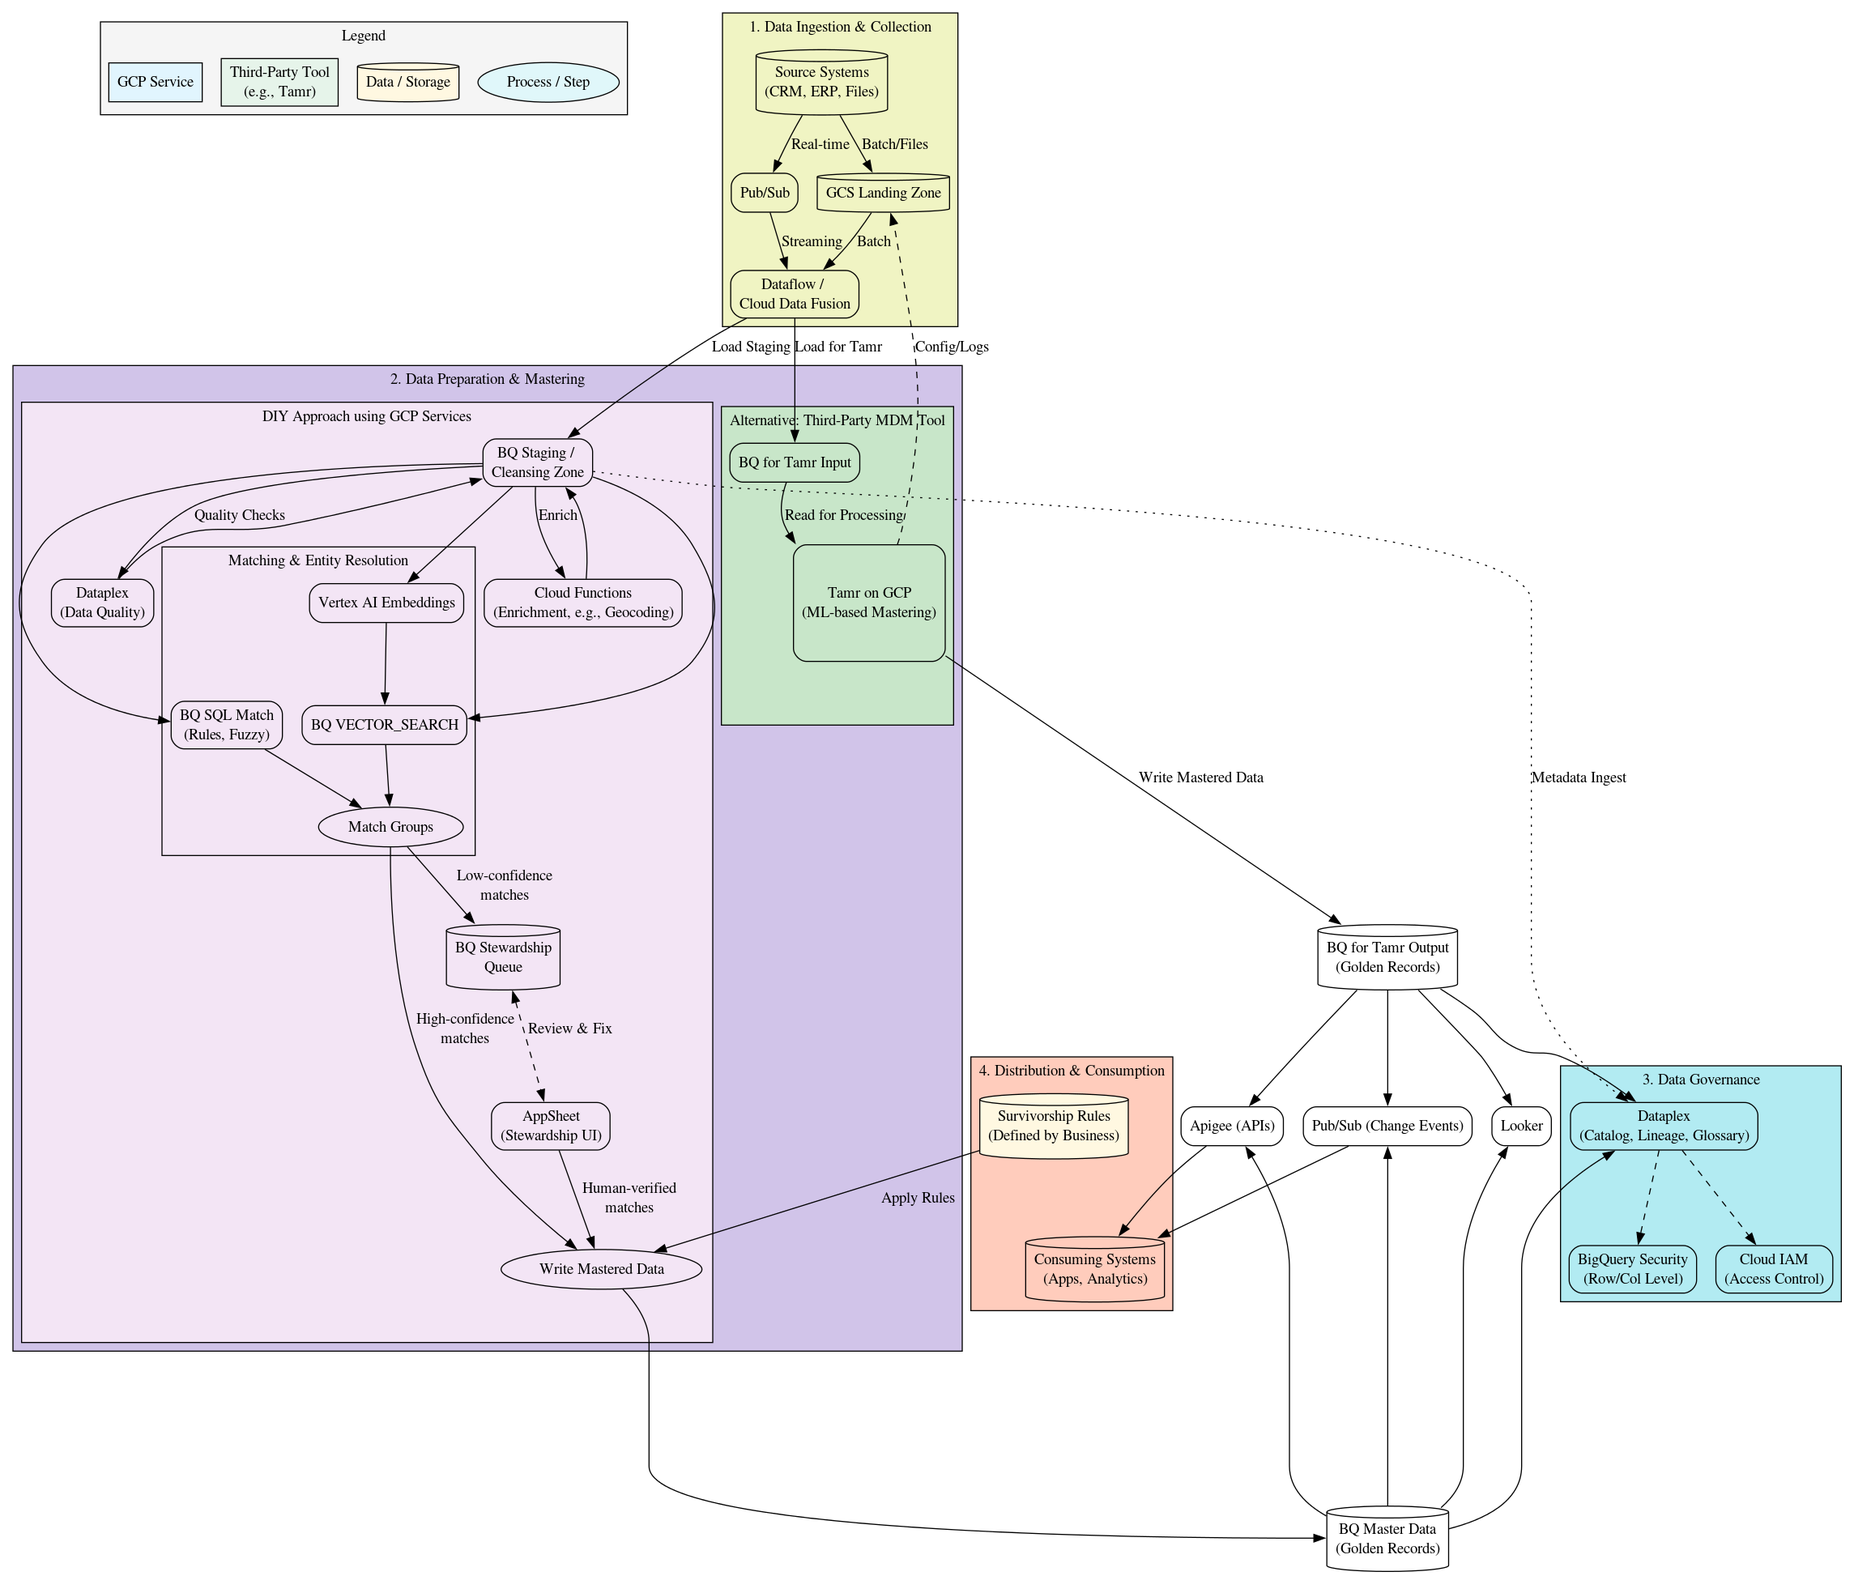
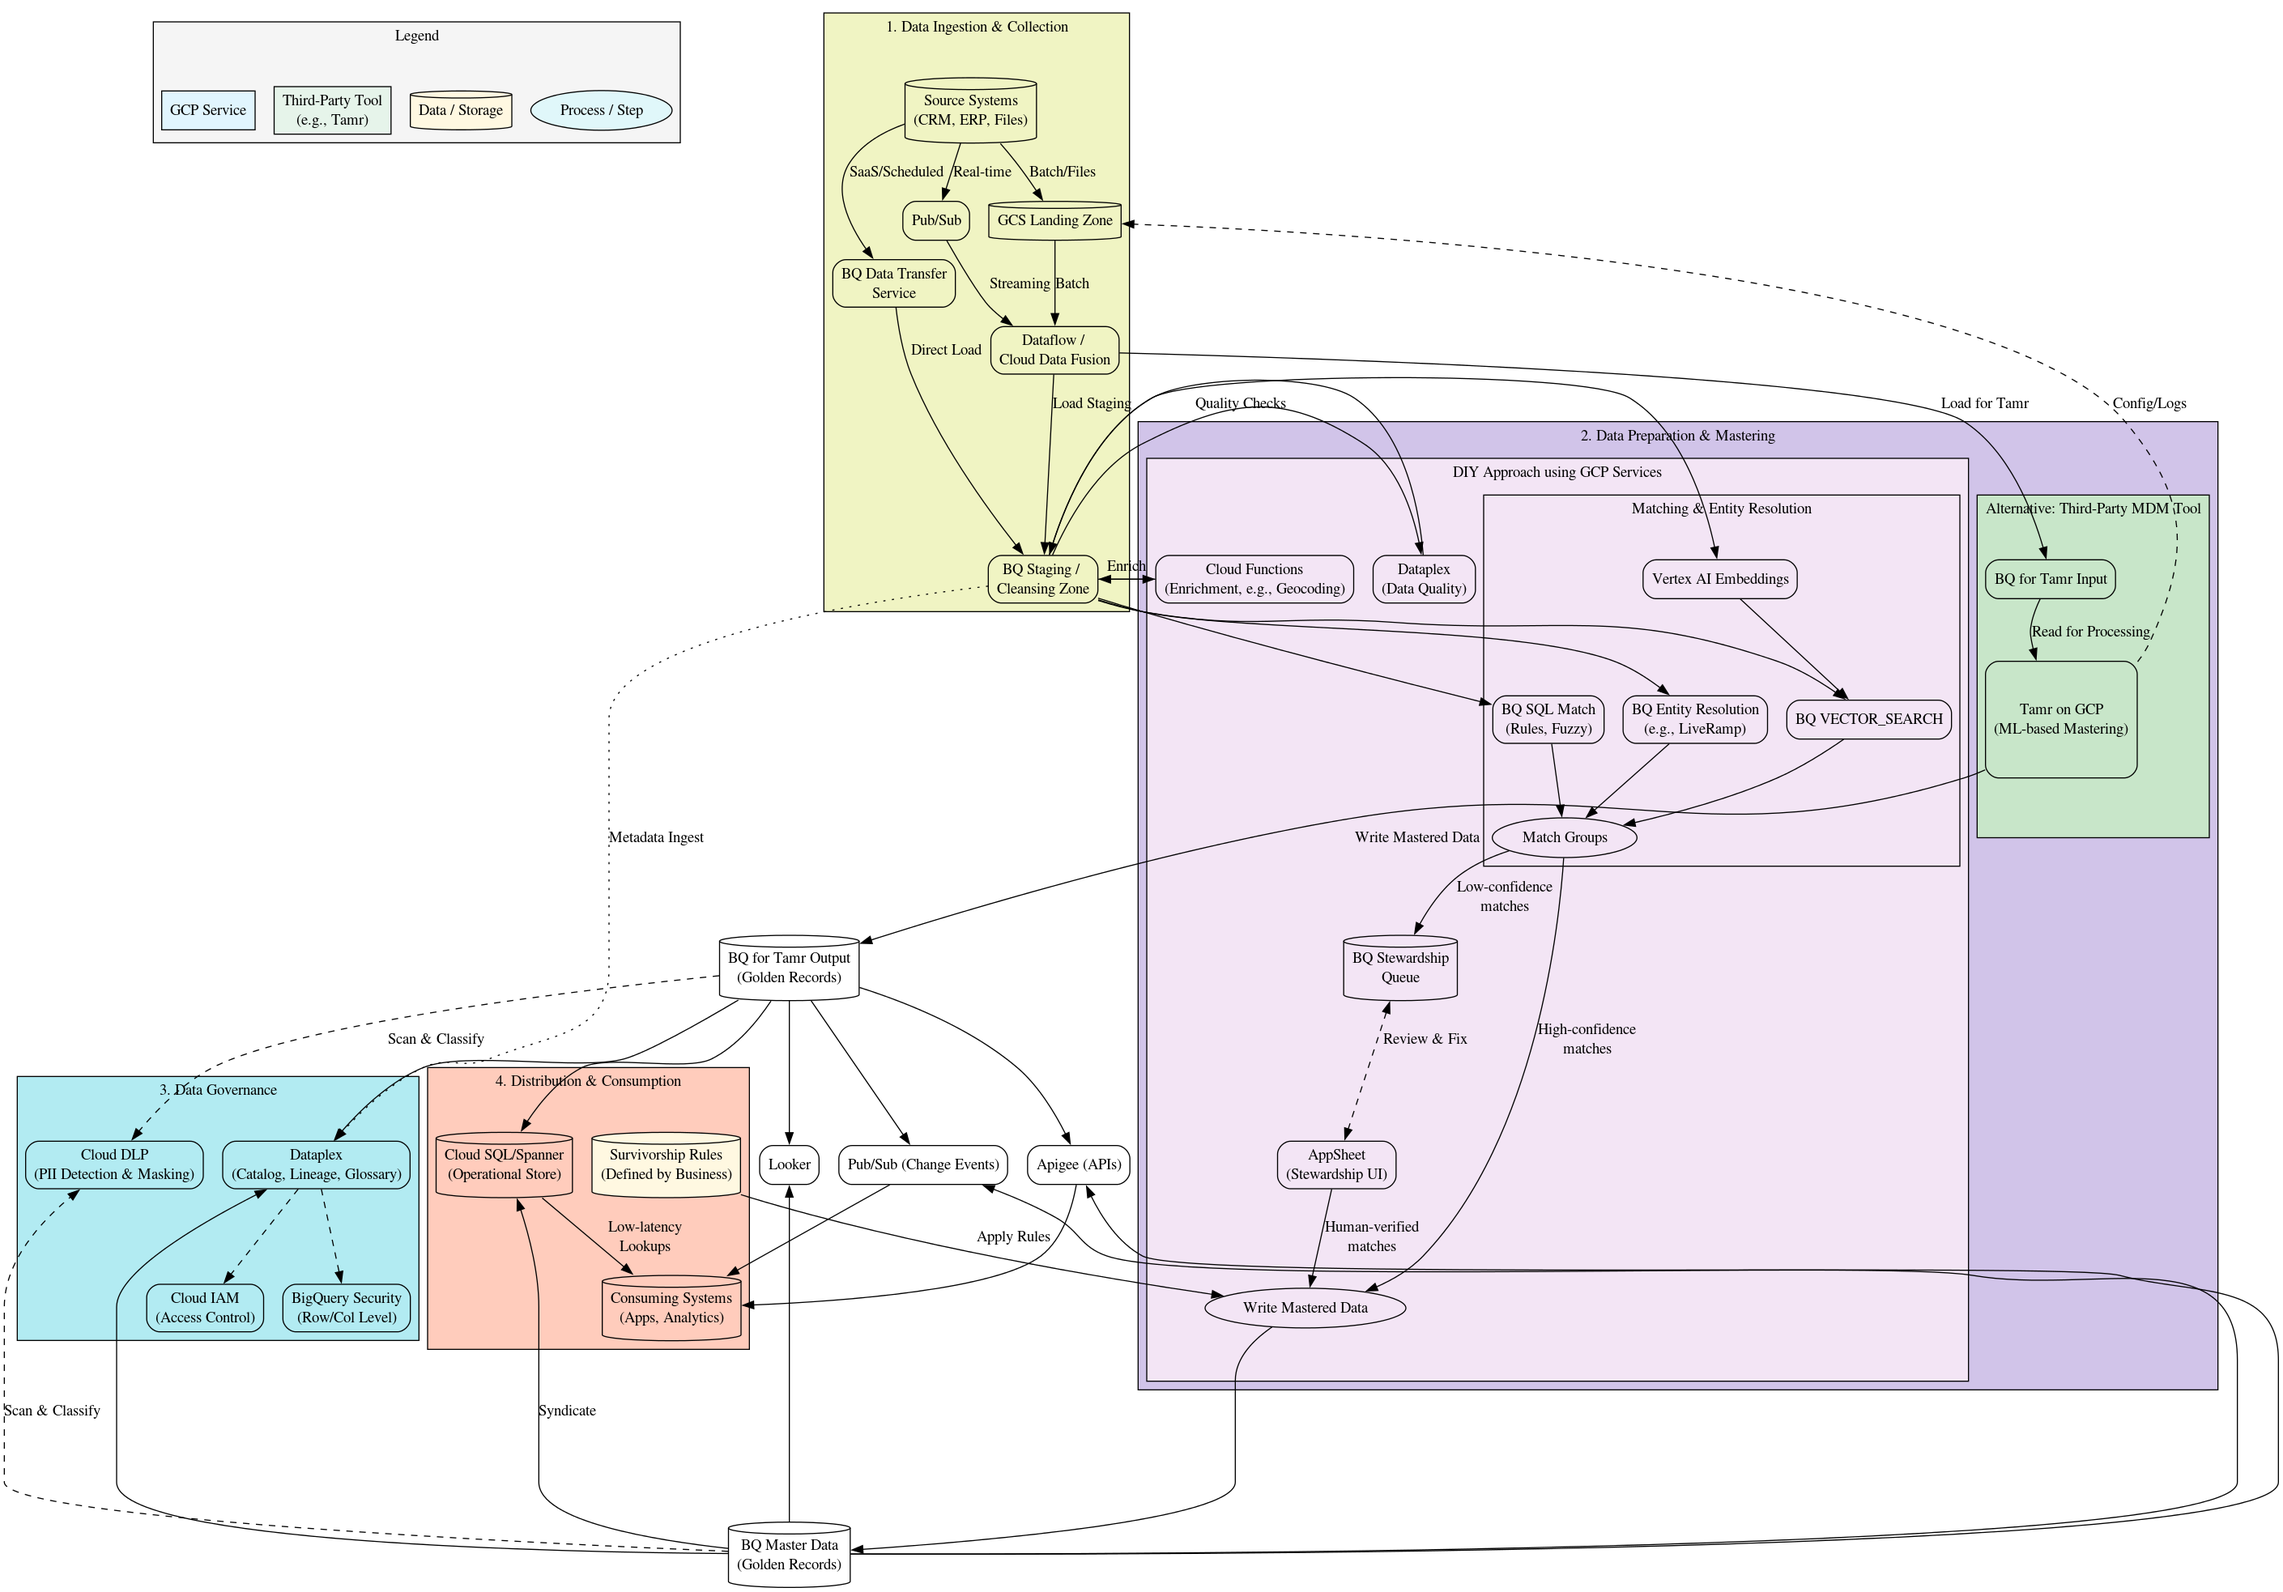
adding more details and variations

diff --git a/README.md b/README.md
@@ -10,13 +10,49 @@ The primary goal of this architecture is to solve the "single source of truth" p
 
 This document serves as an entry point for data architects, data engineers, and platform owners looking to design and implement MDM on GCP.
 
-## Architecture Diagram
+## Why Master Data Management?
 
-Below is the rendered architecture. You can generate an up-to-date version of this image at any time using the `mdm_architecture.dot` file.
+Master Data Management addresses the fundamental challenge of data fragmentation across enterprise systems. Organizations typically struggle with:
 
-*(You will need to generate this image and place it here. A good name would be `mdm_architecture.png`)*
+- **Multiple versions of the same entity** across different systems (e.g., the same customer with different names, addresses, or IDs)
+- **Inconsistent data quality** leading to poor decision-making and operational inefficiencies
+- **Manual reconciliation efforts** that are time-consuming and error-prone
+- **Compliance risks** from inaccurate or incomplete data
 
-![Modern MDM Architecture on GCP](mdm_architecture.png)
+MDM creates a **single source of truth** for critical business entities, enabling:
+- **Improved Decision Making:** Reliable analytics based on consistent, accurate data
+- **Operational Efficiency:** Reduced errors in customer service, billing, and fulfillment
+- **Enhanced Customer Experience:** 360-degree view enabling personalization and better service
+- **Regulatory Compliance:** Accurate data for reporting and audit requirements
+- **Cost Reduction:** Elimination of manual data reconciliation and duplicate processing
+
+### Common Use Cases
+
+- **Customer 360:** Unifying customer data from CRM, e-commerce, support systems, and marketing platforms
+- **Product Master:** Consolidating product information from multiple suppliers, catalogs, and inventory systems
+- **Supplier Management:** Creating consistent supplier records across procurement, finance, and operations
+- **Location Hierarchy:** Standardizing geographic and organizational hierarchies across business units
+- **Healthcare:** Patient record consolidation across multiple healthcare providers and systems
+- **Travel Industry:** Hotel room deduplication between suppliers (e.g., Booking.com, Expedia, direct feeds)
+
+## Architecture Diagrams
+
+This repository includes three architectural views to help you understand different implementation approaches:
+
+### 1. Complete Architecture (Both Approaches)
+Shows both DIY and Third-Party approaches side-by-side for comparison:
+
+![Complete MDM Architecture on GCP](mdm_architecture.png)
+
+### 2. GCP Native Architecture (DIY Approach)
+Focuses exclusively on the DIY approach using only GCP services:
+
+![GCP Native MDM Architecture](mdm_architecture_gcp.png)
+
+### 3. Third-Party Architecture (Tamr/Reltio/Informatica)
+Shows integration with third-party MDM tools:
+
+![Third-Party MDM Architecture](mdm_architecture_3pt.png)
 
 ## Table of Contents
 
@@ -24,20 +60,31 @@ Below is the rendered architecture. You can generate an up-to-date version of th
 - [Key Design Decisions](#key-design-decisions)
 - [How to Generate the Diagram](#how-to-generate-the-diagram)
 - [Component Glossary (GCP Services)](#component-glossary-gcp-services)
-- [Contributing](#contributing)
 
 ## Core Architectural Concepts
 
 The architecture is broken into four main conceptual blocks, representing the complete data lifecycle:
 
-1.  **Data Ingestion & Collection (Block 1):** This stage covers ingesting data from all source systems (e.g., CRMs, ERPs, files) into Google Cloud. It shows patterns for both real-time (via `Pub/Sub`) and batch (via `GCS Landing Zone`) data, which is then processed by `Dataflow` or `Cloud Data Fusion`.
-2.  **Data Preparation & Mastering (Block 2):** This is the core of the solution and visualizes the main "Build vs. Buy" decision.
-    -   The **DIY Path (pink)** uses native GCP services to perform data quality checks, cleansing, matching, and survivorship.
-    -   The **3rd-Party Path (green)** shows data being loaded into BigQuery and then read by a tool like Tamr, which performs the mastering and writes its output back to BigQuery.
-3.  **Data Governance (Block 3):** Once the golden records are created (by either path), this block shows how they are governed. `Dataplex` is used to create a unified data catalog, track lineage, and manage business glossaries. `Cloud IAM` and `BigQuery Security` enforce access control.
-4.  **Distribution & Consumption (Block 4):** This final stage shows how the mastered data is used. It covers both:
-    -   **Analytical Consumption:** `Looker` (or any BI tool) for reporting.
-    -   **Operational Consumption:** `Apigee` (for API access) and `Pub/Sub` (for real-time change data capture events).
+1.  **Data Ingestion & Collection (Block 1):** This stage covers ingesting data from all source systems into Google Cloud with multiple ingestion patterns:
+    -   **Real-time:** `Pub/Sub` for streaming data from applications and IoT devices
+    -   **Batch/Files:** `GCS Landing Zone` for file-based data (CSV, JSON, Parquet)
+    -   **SaaS/Scheduled:** `BQ Data Transfer Service` for managed ingestion from SaaS applications (Salesforce, Google Ads, etc.)
+    -   **Processing:** `Dataflow` or `Cloud Data Fusion` for ETL/ELT transformations
+
+2.  **Data Preparation & Mastering (Block 2):** This is the core of the solution and visualizes the main "Build vs. Buy" decision:
+    -   **DIY Path (pink):** Uses native GCP services including `BigQuery` for staging, `Dataplex` for data quality, multiple matching strategies (SQL rules, Vector Search, Entity Resolution Framework), and a human-in-the-loop stewardship process via `AppSheet`
+    -   **3rd-Party Path (green):** Shows data being loaded into BigQuery and processed by specialized MDM tools like `Tamr`, which perform ML-based mastering and write results back to BigQuery
+
+3.  **Data Governance (Block 3):** Comprehensive governance layer that applies to both DIY and third-party approaches:
+    -   **Cataloging & Lineage:** `Dataplex` creates unified data catalog and tracks data lineage
+    -   **Access Control:** `Cloud IAM` and `BigQuery Security` (row/column level security)
+    -   **Privacy & Compliance:** `Cloud DLP` for PII detection, classification, and masking
+
+4.  **Distribution & Consumption (Block 4):** Multiple consumption patterns for different use cases:
+    -   **Analytics:** `Looker` for business intelligence and reporting
+    -   **APIs:** `Apigee` for secure, managed API access to master data
+    -   **Event-Driven:** `Pub/Sub` for real-time change notifications
+    -   **Operational Systems:** `Cloud SQL/Spanner` for low-latency transactional lookups
 
 ## Key Design Decisions
 
@@ -49,9 +96,13 @@ The diagram's central feature is the parallel representation of the two main MDM
 
 ### 2. State-of-the-Art DIY Stack
 
-The "DIY Approach" is not just simple SQL rules. It represents a modern, ML-driven framework:
-* **Vector Search:** It explicitly uses `Vertex AI Embeddings` and `BQ VECTOR_SEARCH` for advanced, probabilistic entity resolution. This allows for "fuzzy matching" on names, addresses, and other attributes at scale.
-* **Rules Engine:** It combines this ML approach with a traditional `BQ SQL Match` for deterministic rules (e.g., matching on a verified email or tax ID).
+The "DIY Approach" is not just simple SQL rules. It represents a modern, ML-driven framework with multiple matching strategies:
+
+* **Traditional Rules Engine:** `BQ SQL Match` for deterministic rules (e.g., exact matches on email, tax ID, or phone numbers)
+* **Vector Search:** `Vertex AI Embeddings` combined with `BQ VECTOR_SEARCH` for advanced, probabilistic entity resolution. This generates numerical embeddings for text attributes like names and addresses, enabling "fuzzy matching" that's resilient to typos and variations
+* **Third-Party Identity Resolution:** `BQ Entity Resolution Framework` (e.g., LiveRamp integration) provides access to external identity graphs without moving your data outside BigQuery
+* **Data Enrichment:** `Cloud Functions` for calling external APIs (geocoding, company data providers) and `Vertex AI` for ML-based enrichment
+* **Quality Assurance:** `Dataplex Data Quality` for automated data validation and monitoring
 
 ### 3. The "Human-in-the-Loop" Stewardship Process
 
@@ -64,7 +115,7 @@ A fully automated MDM is unrealistic. The "DIY" path explicitly includes a criti
 
 Survivorship (the rules that decide which source "wins" for each data field) is treated as a separate configuration input (`Survivorship Rules`). This logic is applied at the final `Write Mastered Data` step, making it easy to update the business rules without re-engineering the entire matching pipeline.
 
-## How to Generate the Diagram
+## How to Generate the Diagrams
 
 ### Prerequisites
 
@@ -72,8 +123,95 @@ You must have [Graphviz](https://graphviz.org/download/) installed on your local
 
 ### Instructions
 
-The repository contains the `mdm_architecture.dot` source file. You can generate the diagram image using the following commands from your terminal:
+The repository contains three DOT source files. You can generate the diagram images using the following commands from your terminal:
 
-**To generate a PNG image:**
+**To generate all PNG images:**
 ```bash
+# Complete architecture (both approaches)
 dot -Tpng mdm_architecture.dot -o mdm_architecture.png
+
+# GCP Native (DIY) architecture
+dot -Tpng mdm_architecture_gcp.dot -o mdm_architecture_gcp.png
+
+# Third-Party architecture
+dot -Tpng mdm_architecture_3pt.dot -o mdm_architecture_3pt.png
+```
+
+**To generate all SVG images:**
+```bash
+# Complete architecture (both approaches)
+dot -Tsvg mdm_architecture.dot -o mdm_architecture.svg
+
+# GCP Native (DIY) architecture
+dot -Tsvg mdm_architecture_gcp.dot -o mdm_architecture_gcp.svg
+
+# Third-Party architecture
+dot -Tsvg mdm_architecture_3pt.dot -o mdm_architecture_3pt.svg
+```
+
+**To generate all diagrams at once:**
+```bash
+# Generate all PNG files
+for file in mdm_architecture*.dot; do
+    dot -Tpng "$file" -o "${file%.dot}.png"
+done
+```
+
+## Component Glossary (GCP Services)
+
+### Data Ingestion & Collection
+- **Cloud Storage (GCS):** Object storage for staging raw data files from various sources
+- **Pub/Sub:** Real-time messaging service for streaming data ingestion
+- **Dataflow:** Serverless stream and batch data processing service for ETL/ELT pipelines
+- **Cloud Data Fusion:** Visual data integration service with drag-and-drop interface
+- **BigQuery Data Transfer Service:** Managed service for scheduled data imports from SaaS applications
+
+### Data Processing & Mastering
+- **BigQuery:** Serverless data warehouse serving as the central repository for staging and master data
+- **Dataplex:** Unified data management service providing data quality, cataloging, and governance
+- **Cloud Functions:** Event-driven serverless compute for data enrichment and lightweight processing
+- **Vertex AI:** Machine learning platform for embeddings generation and custom model training
+- **AppSheet:** No-code application platform for building data stewardship interfaces
+
+### Matching & Entity Resolution
+- **BigQuery SQL:** Native SQL capabilities for rule-based matching and fuzzy logic
+- **BigQuery Vector Search:** Semantic similarity search using ML embeddings
+- **BigQuery Entity Resolution Framework:** Integration with third-party identity providers (e.g., LiveRamp)
+- **Vertex AI Embeddings:** Text embedding models for semantic matching
+
+### Data Governance & Security
+- **Cloud IAM:** Identity and access management for fine-grained permissions
+- **BigQuery Security:** Row-level and column-level security controls
+- **Cloud DLP:** Data loss prevention for PII detection, classification, and masking
+- **Dataplex Catalog:** Metadata management, data lineage, and business glossary
+
+### Distribution & Consumption
+- **Looker:** Business intelligence platform for analytics and reporting
+- **Apigee:** API management platform for secure data access
+- **Pub/Sub:** Event streaming for real-time change notifications
+- **Cloud SQL/Spanner:** Relational databases for operational data stores requiring low-latency access
+
+### Third-Party Integration Examples
+- **Tamr:** ML-powered data mastering platform that runs on GCP infrastructure
+- **Reltio:** Cloud-native MDM platform with deep BigQuery integration
+- **Informatica IDMC:** Comprehensive data management suite with GCP connectors
+
+## Migration from Legacy MDM Systems
+
+Organizations migrating from on-premise MDM solutions (such as IBM InfoSphere MDM) should consider:
+
+### Assessment Phase
+1. **Current State Analysis:** Document existing data models, business rules, and integration points
+2. **Rule Migration:** Catalog matching rules, survivorship logic, and data quality checks
+3. **Integration Mapping:** Identify all upstream sources and downstream consumers
+
+### Migration Strategies
+- **Phased Approach:** Migrate one data domain at a time (e.g., Customer, then Product)
+- **Parallel Run:** Operate both systems temporarily to validate results
+- **Rule Translation:** Convert legacy business rules to BigQuery SQL or partner tool configurations
+
+### GCP Advantages Over Legacy Systems
+- **Scalability:** Handle larger data volumes without infrastructure constraints
+- **Cost Efficiency:** Pay-as-you-go model vs. large upfront licensing costs
+- **Modern ML Capabilities:** Advanced matching using embeddings and vector search
+- **Cloud-Native Integration:** Seamless connectivity with other cloud services and SaaS applications
